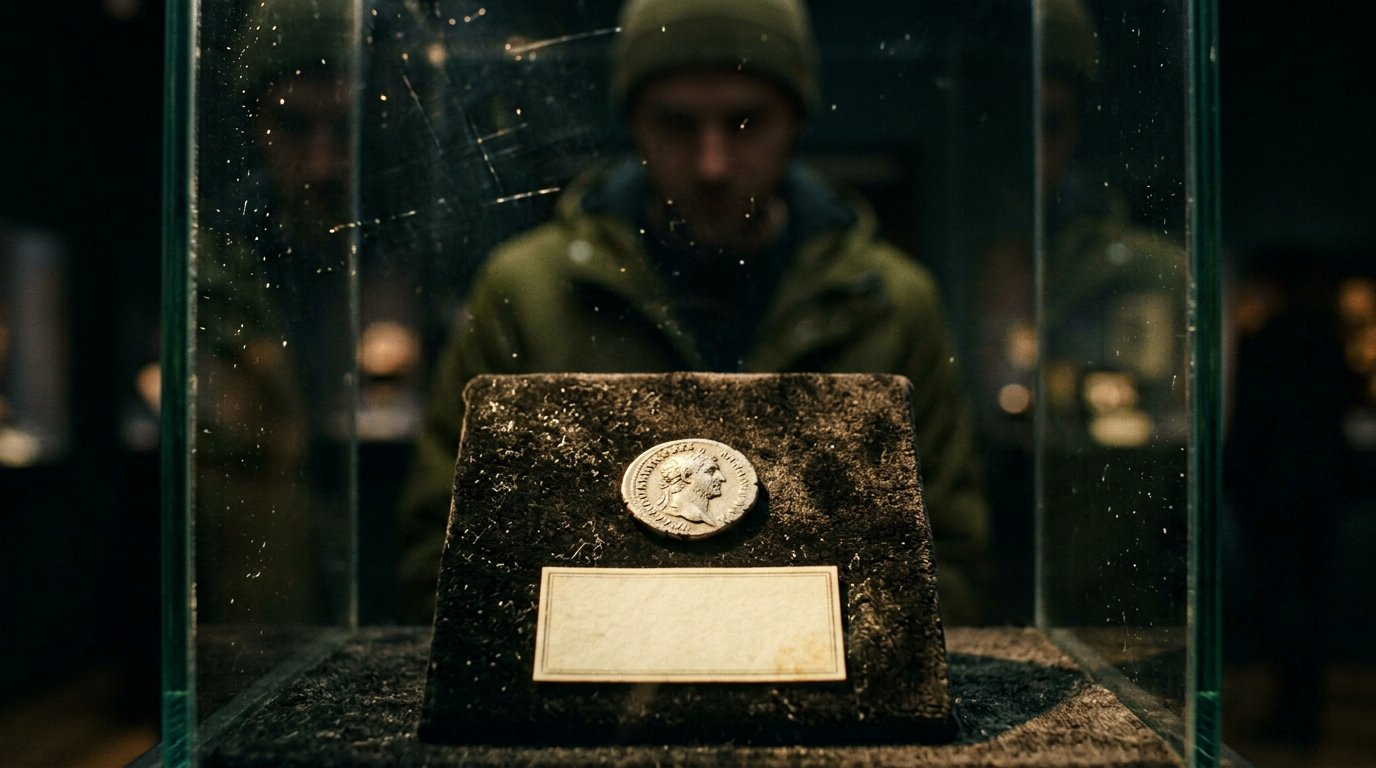
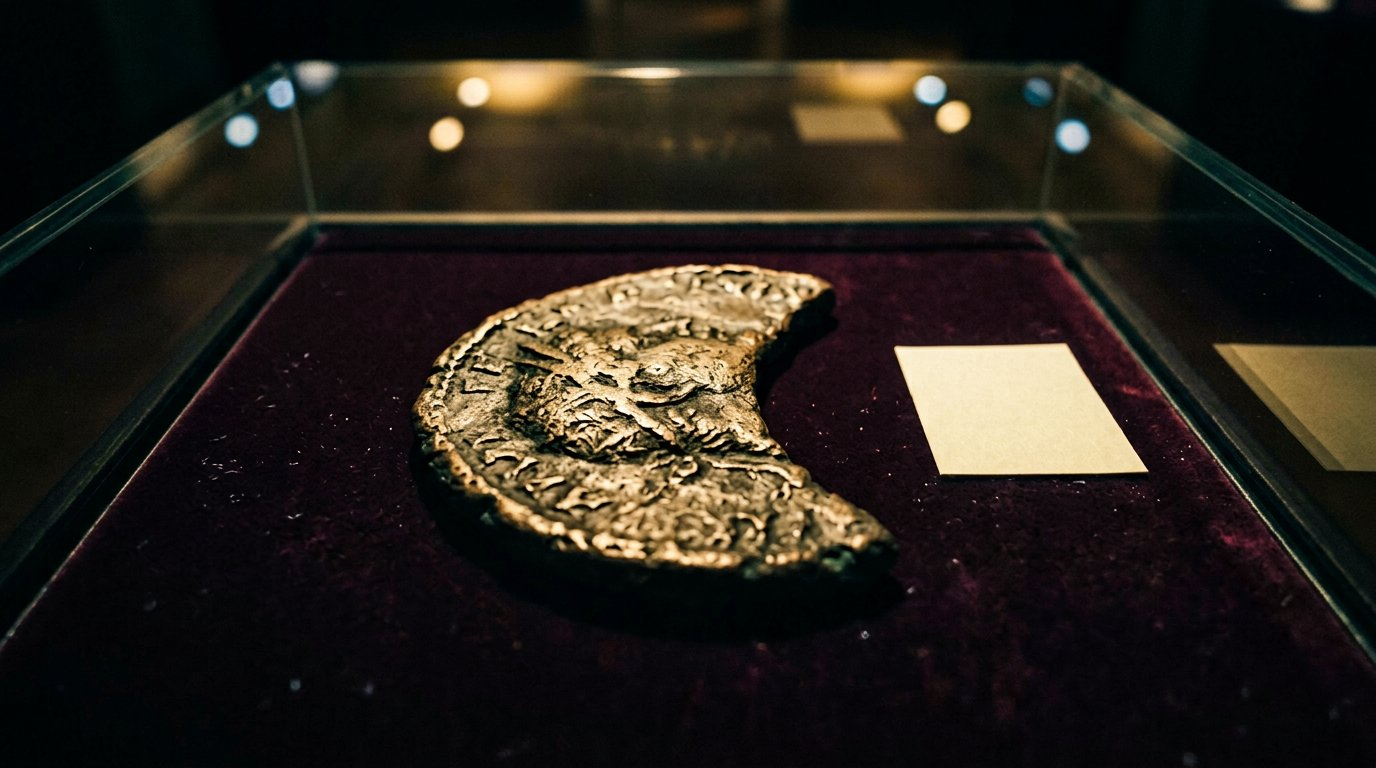
fix(art): replace 070 with a coin that has no face on it
The final shot kept returning classical coinage — first a denarius, then
an Athena tetradrachm — because a flat-on coin face is a composition that
demands a portrait die. Rewritten as a macro from directly above, raking
light, the coin cropped to an arc, and no person in the reflection. The
relief now reads as worn texture with nothing legible on it.

diff --git a/scripts/episode-audit/ep002_scene_directions.py b/scripts/episode-audit/ep002_scene_directions.py
@@ -185,6 +185,6 @@ SCENES = {
      "unable to be joined, dark background.", "dark, single light"),
 69: ('The ash plain of the ruined city at dusk, a bronze harpy statue with spread wings alone on a broken square brick plinth in the middle distance, cracked brick rubble and broken walls around it to the horizon, no staircase on the plinth and no tiered platforms and no pyramid and no stepped pyramid, no classical columns, no temple colonnade, last light on the bronze.',
     GHIS + ", last light"),
-70: ("The coin in a museum case on dark velvet with a small blank ivory label beneath it and nothing written on it, a visitor's blurred reflection faintly visible in the glass, the coin's face showing a winged woman with a raised fist and a thunderbolt, no laurel wreath, no emperor's profile, no classical portrait bust, no Latin letters.",
-    "dark, museum spot"),
+70: ('The coin inside its museum case at night, lying flat on dark velvet and seen from directly above so only a bare arc of the struck metal shows, the lighting raking across the surface so the relief reads as pure texture and the figure on it cannot be recognised, a blank cream label with no writing beside it, the glass throwing back only the ceiling lights and no person at all. No face anywhere in the frame, no reflection of a visitor, no profile, no helmet, no wreath, no classical portrait.',
+    "dark, museum spot")
 }
